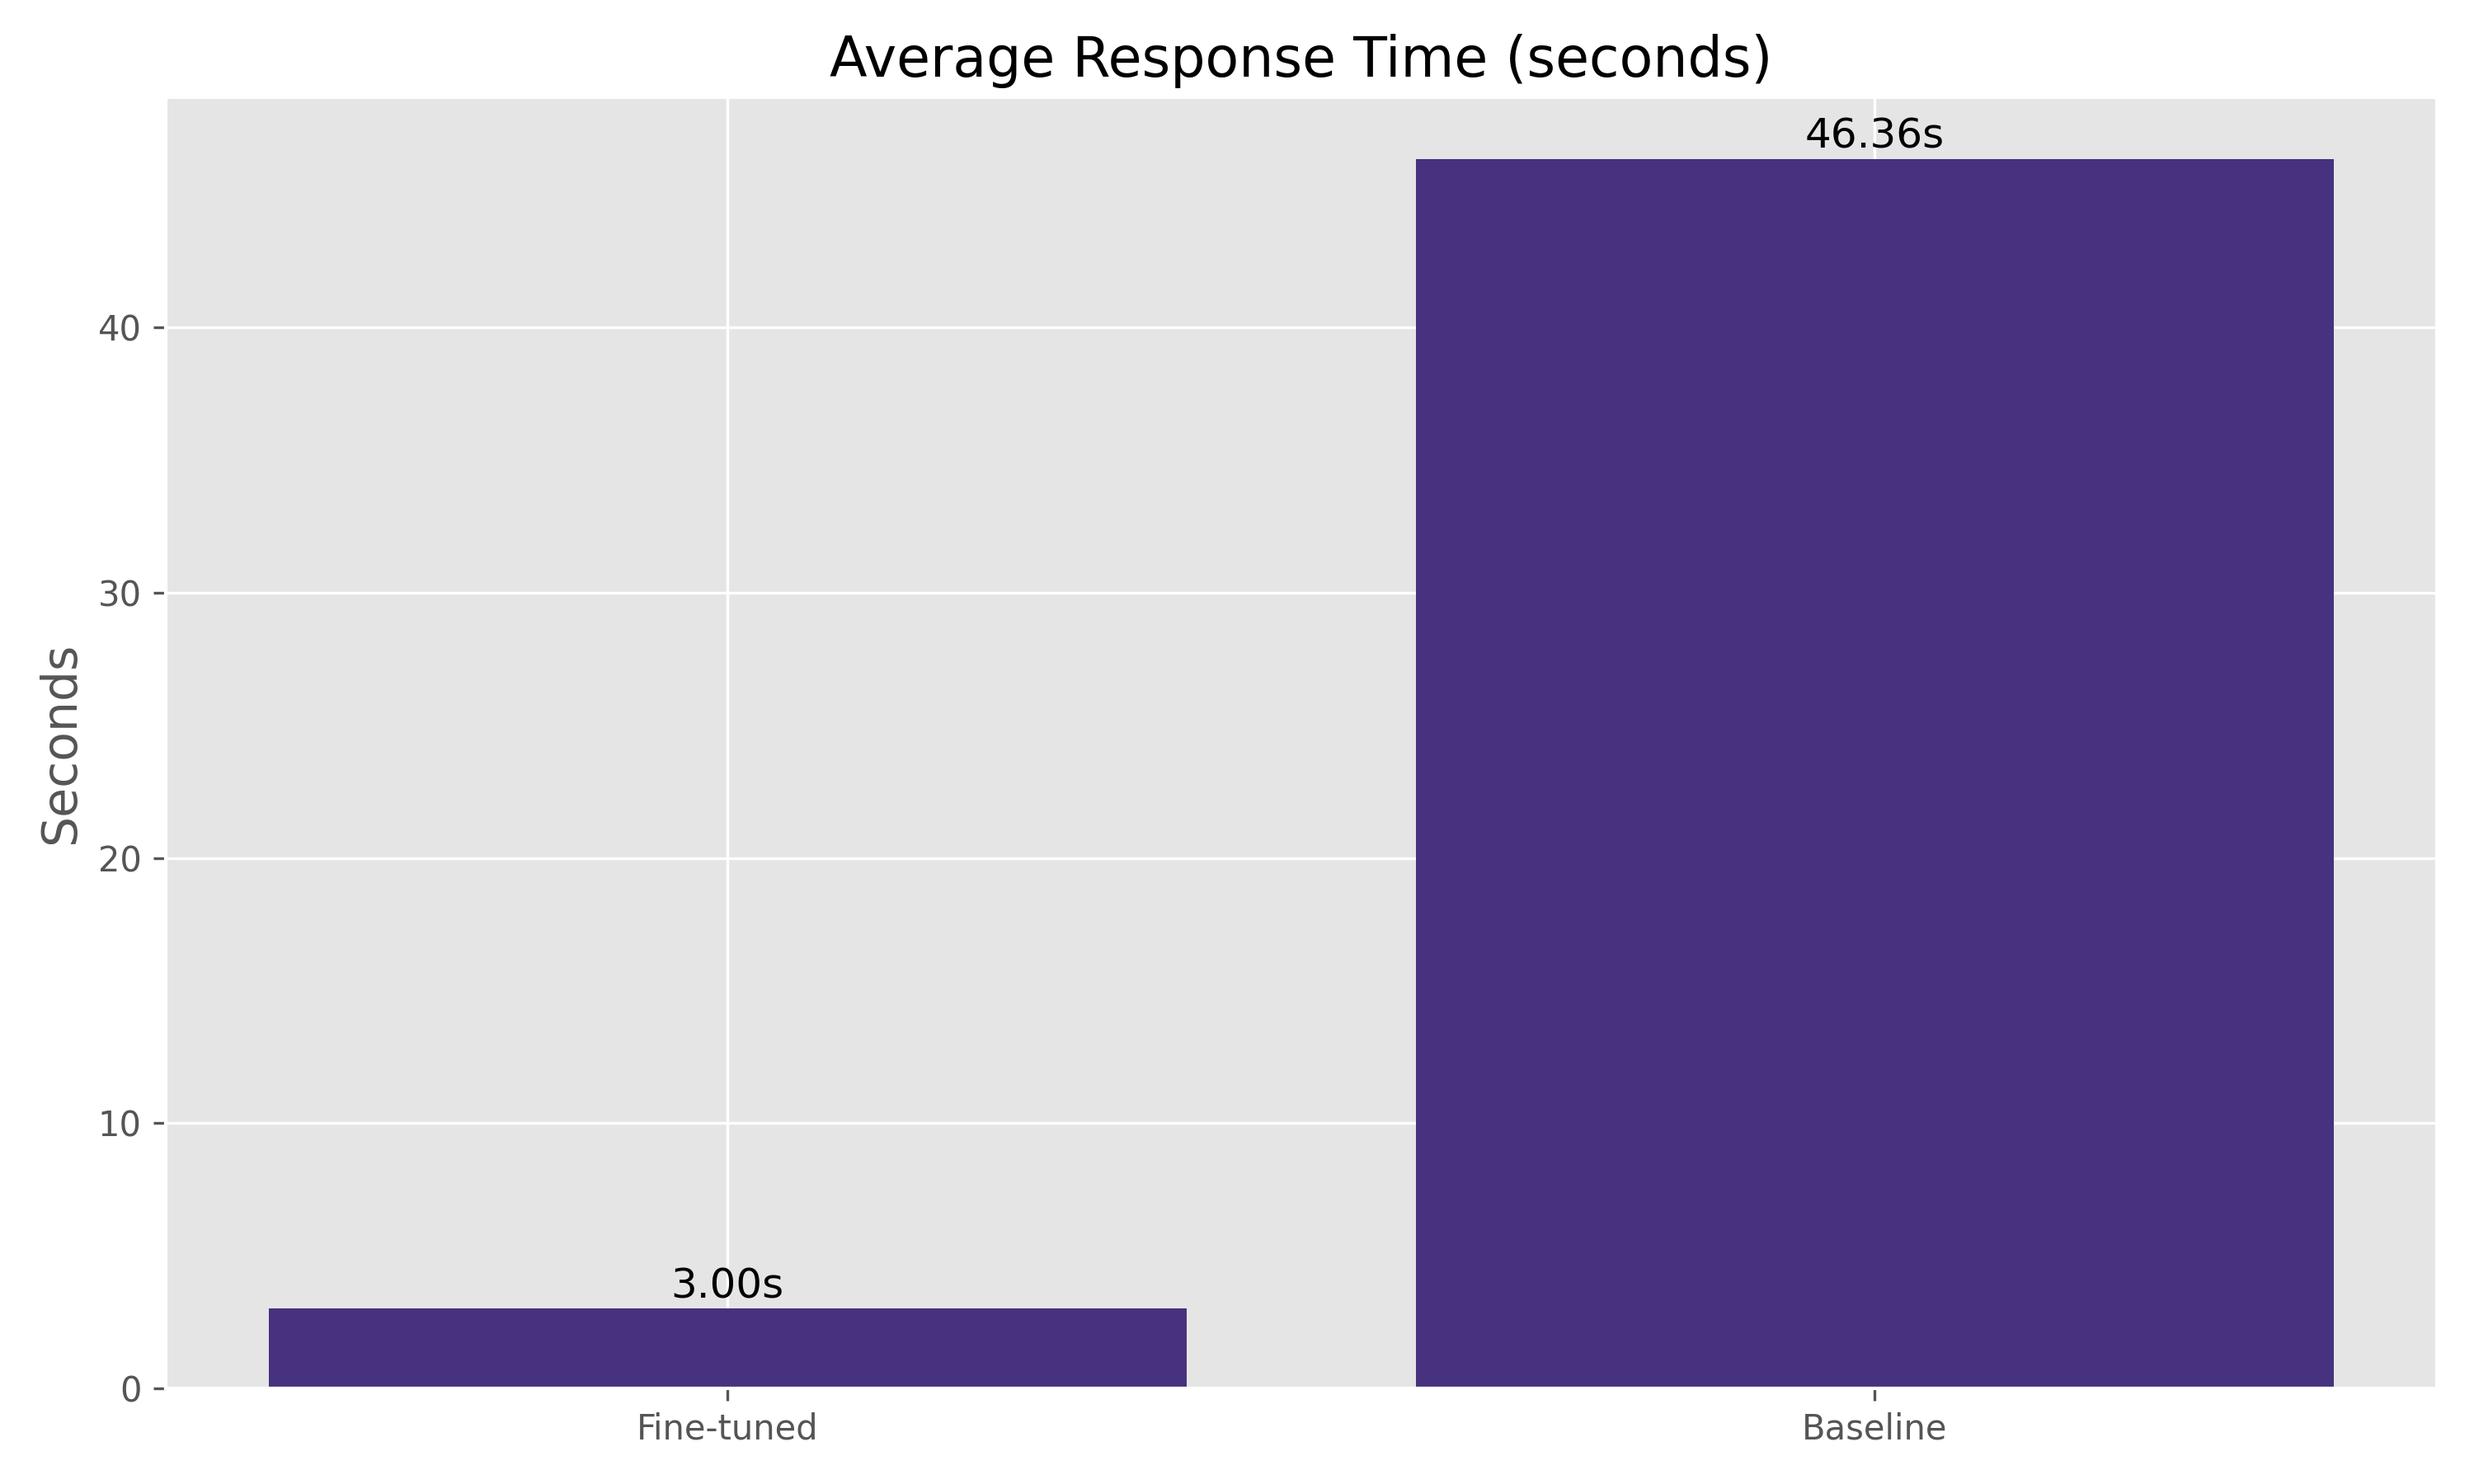
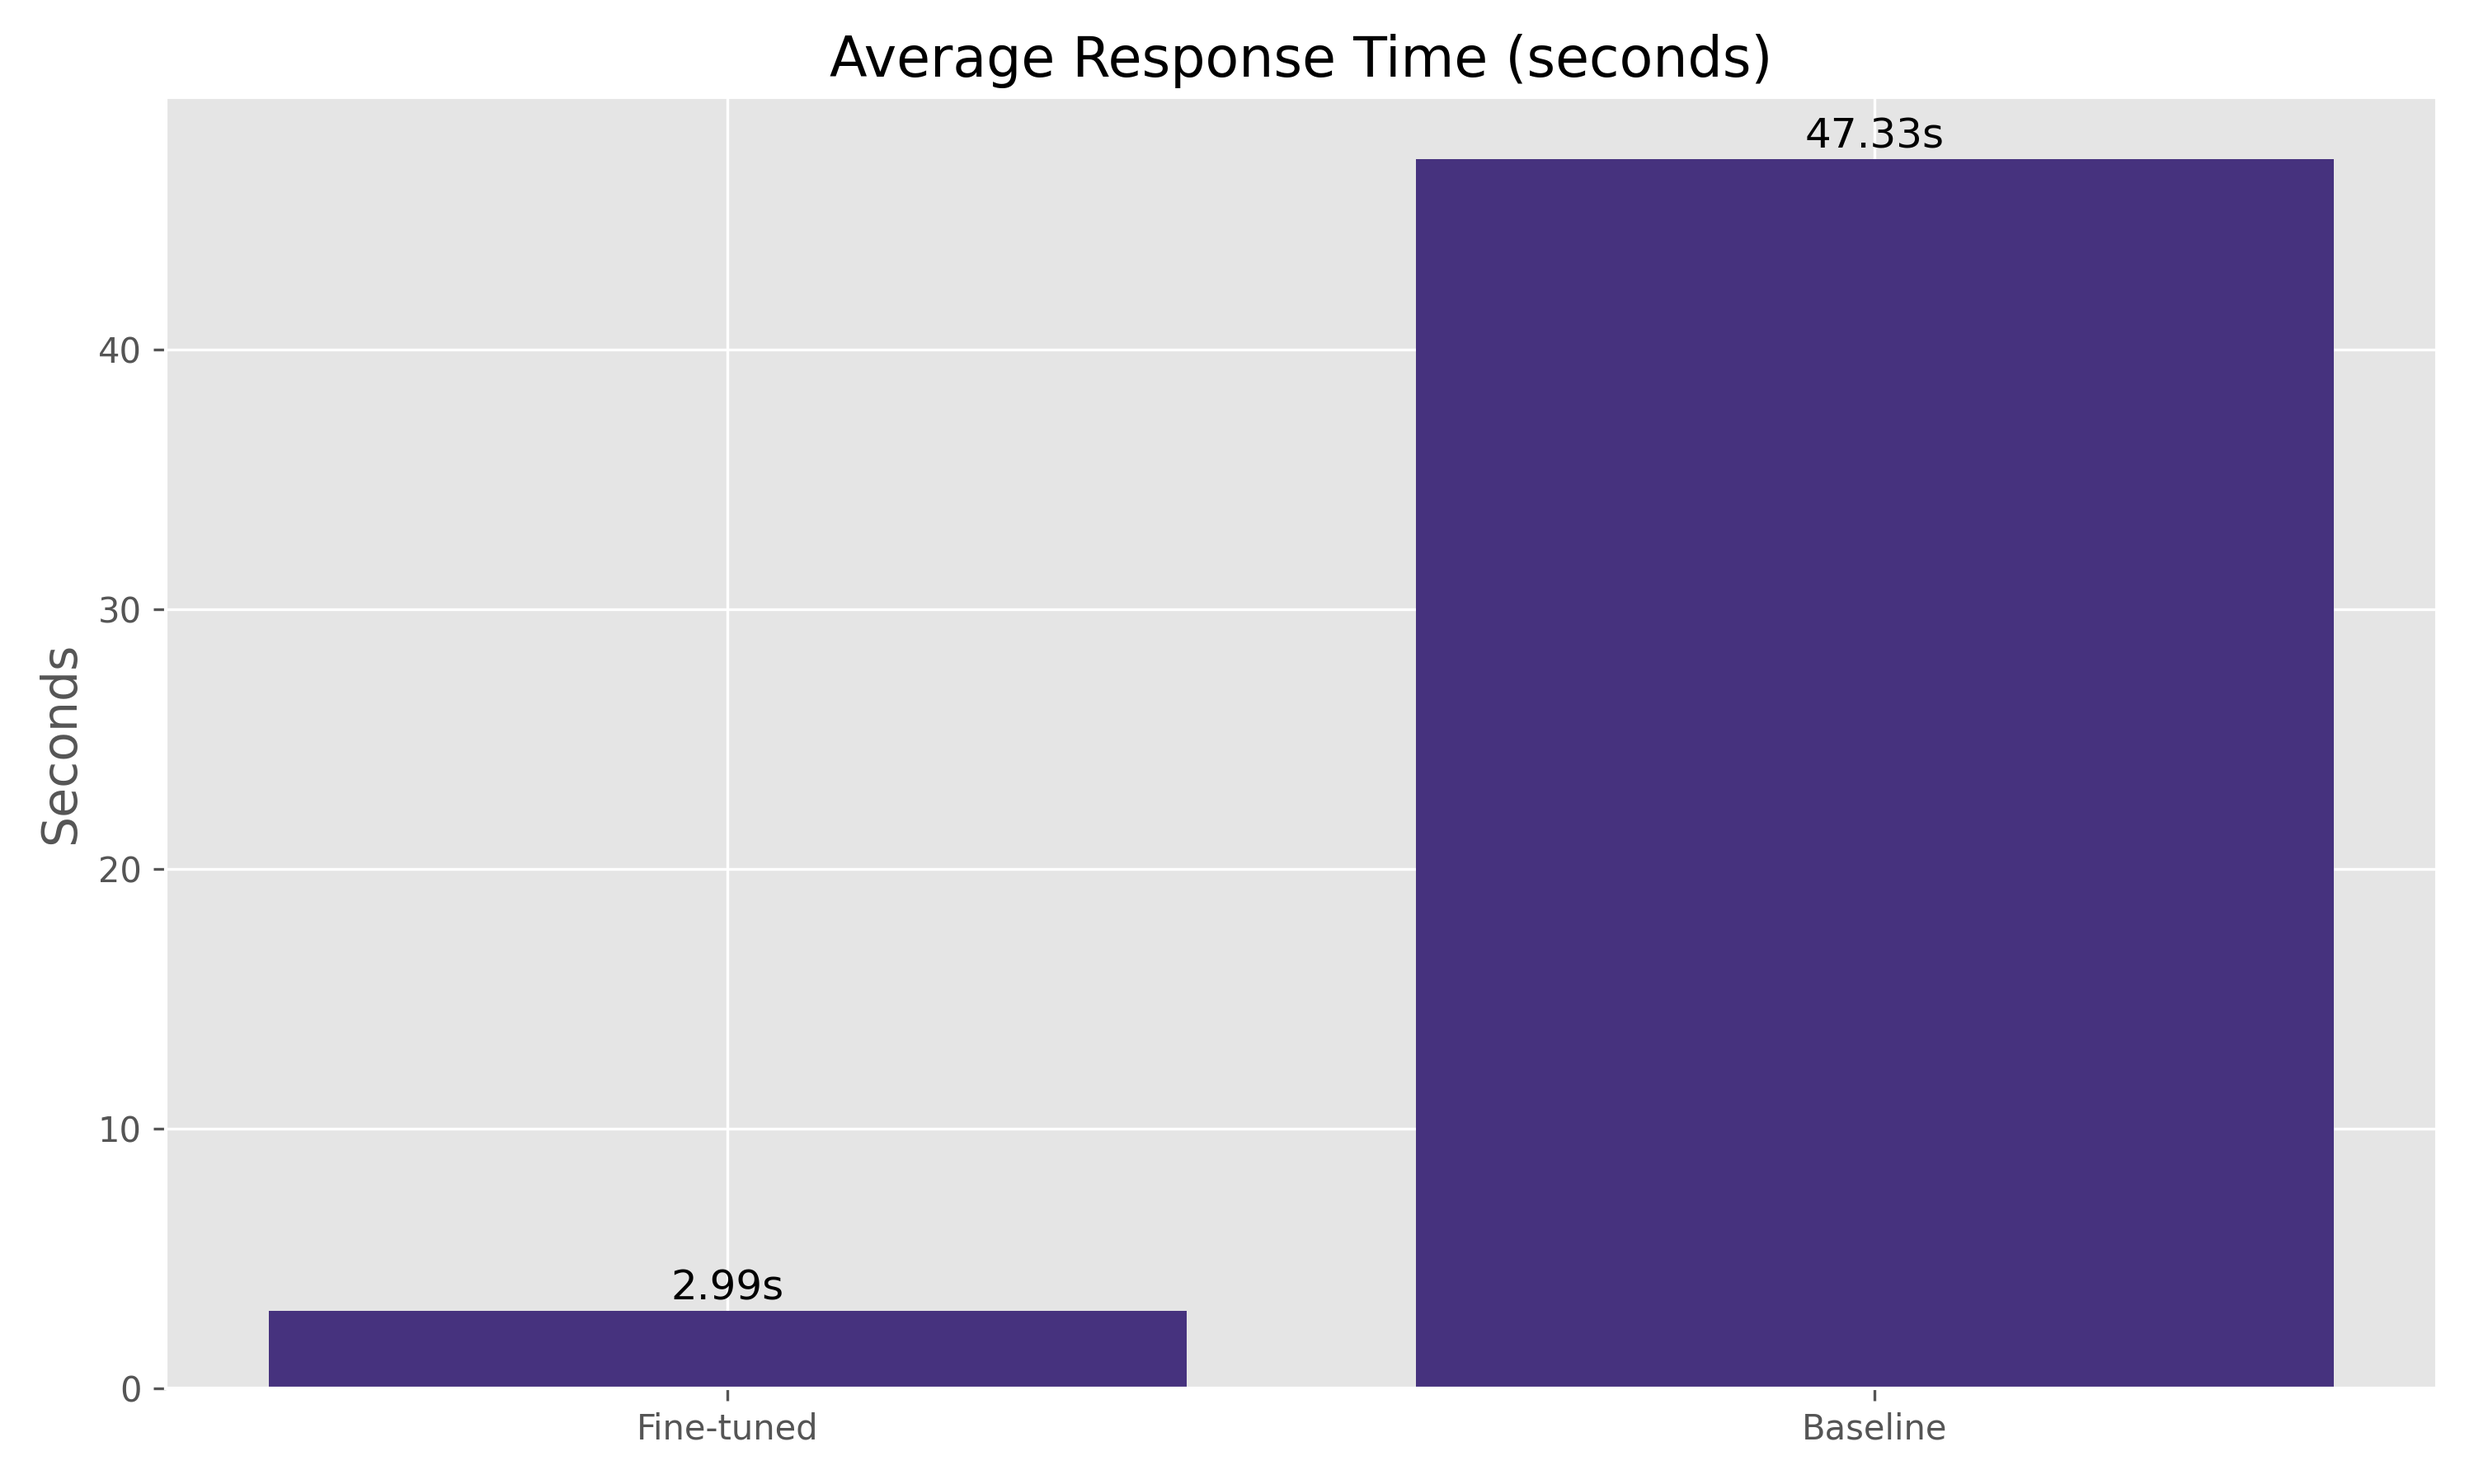
Add comprehensive benchmark results and documentation for RRR model performance
- Update README.md with detailed benchmark methodology and performance metrics
- Add visualizations for quality metrics, response time, and NLP comparisons
- Include category-wise performance analysis in benchmark results
- Update benchmark result images and JSON files with refined metrics
- Enhance documentation for fine-tuned model usage and evaluation

diff --git a/README.md b/README.md
@@ -66,6 +66,13 @@ The dataset contains dialogues between users and a virtual human, where each res
    - Creates automatic backups
    - Preserves dialogue structure
 
+5. `benchmark_rrr.py`
+   - Evaluates model performance against baseline
+   - Calculates format compliance and quality metrics
+   - Generates visualizations and detailed reports
+   - Computes NLP metrics using reference responses
+   - Analyzes performance across different prompt categories
+
 ### Setup & Usage 🚀
 
 1. Install dependencies:
@@ -94,6 +101,9 @@ python seed_dialogues_validate_tags.py
 
 # Save curated dialogues
 python seed_dialogues_save_curated.py
+
+# Run benchmark evaluation
+python benchmark_rrr.py
 ```
 
 ### Directory Structure 📁
@@ -103,6 +113,61 @@ python seed_dialogues_save_curated.py
 ├── dialogs_to_curate/        # Pending curation
 ├── seed_dialogues_*.json     # Generated batches
 └── requirements.txt          # Dependencies
+```
+
+## Fine-tuned Model 🤖
+
+We've fine-tuned a Mistral-7B model to follow the React-Respond-Reflect framework, creating a conversational AI that provides structured, empathetic responses.
+
+### Model Features
+
+- **Format Adherence**: Consistently follows the three-part structure
+- **Reasoning Quality**: Demonstrates thoughtful internal processing
+- **Response Quality**: Provides helpful, contextually appropriate answers
+- **Reflection Depth**: Shows self-awareness and conversation analysis
+- **Fast Response**: Generates complete responses in ~3 seconds
+
+### Usage
+
+```python
+from transformers import AutoTokenizer, AutoModelForCausalLM
+from unsloth import FastLanguageModel
+
+# Load the model
+model, tokenizer = FastLanguageModel.from_pretrained(
+    model_name="rrr_model",  # Local path or HuggingFace repo
+    max_seq_length=2048,
+    load_in_4bit=True,
+)
+
+# Apply chat template
+from unsloth.chat_templates import get_chat_template
+tokenizer = get_chat_template(
+    tokenizer,
+    chat_template="chatml",
+    map_eos_token=True,
+)
+
+# Prepare for inference
+FastLanguageModel.for_inference(model)
+
+# Generate a response
+messages = [{"role": "user", "content": "I'm feeling anxious about my job interview tomorrow. Any advice?"}]
+inputs = tokenizer.apply_chat_template(
+    messages,
+    tokenize=True,
+    add_generation_prompt=True,
+    return_tensors="pt"
+).to("cuda")
+
+outputs = model.generate(
+    input_ids=inputs,
+    max_new_tokens=2048,
+    temperature=0.7,
+)
+
+response = tokenizer.decode(outputs[0], skip_special_tokens=False)
+print(response)
 ```
 
 ## Using the Dataset 💡
@@ -119,6 +184,61 @@ dataset = load_dataset("leonvanbokhorst/react-respond-reflect-dialogues-v2")
 - Analyzing structured dialogue frameworks
 - Developing emotional intelligence in chatbots
 
+## Benchmark Results 📊
+
+We've conducted comprehensive benchmarking of our fine-tuned React-Respond-Reflect model against a baseline model (Mistral-7B). The results demonstrate significant improvements in format compliance, response quality, and processing speed.
+
+### Performance Metrics
+
+| Metric | Fine-tuned Model | Baseline Model |
+|--------|-----------------|---------------|
+| Format Compliance | 100.0% | 0.0% |
+| Reasoning Quality | 7.6/10 | 0.0/10 |
+| Response Quality | 7.4/10 | 0.0/10 |
+| Reflection Depth | 7.2/10 | 0.0/10 |
+| Response Time | 3.0s | 47.3s |
+
+### NLP Metrics
+
+| Metric | Score |
+|--------|-------|
+| BLEU | 0.028 |
+| ROUGE-1 | 0.257 |
+| ROUGE-2 | 0.054 |
+| ROUGE-L | 0.194 |
+| METEOR | 0.174 |
+| BERTScore F1 | 0.189 |
+| Semantic Similarity | 0.379 |
+
+### Visualizations
+
+#### Quality Metrics Comparison
+![Quality Metrics Comparison](benchmark_results/quality_radar.png)
+
+#### Response Time Comparison
+![Response Time Comparison](benchmark_results/response_time.png)
+
+#### NLP Metrics
+![NLP Metrics Comparison](benchmark_results/nlp_metrics_comparison.png)
+
+#### Category Analysis
+![Category Analysis](benchmark_results/category_analysis.png)
+
+### Benchmark Methodology
+
+The benchmark evaluates:
+1. **Format compliance**: Adherence to the React-Respond-Reflect structure
+2. **Quality metrics**: Reasoning depth, response helpfulness, and reflection insight
+3. **Response time**: Generation speed for complete responses
+4. **NLP metrics**: Similarity to reference responses using BLEU, ROUGE, METEOR, and BERTScore
+5. **Category performance**: Performance across emotional support, practical advice, philosophical, and adversarial prompts
+
+The benchmark uses a combination of:
+- Automated format validation
+- GPT-4o-mini for quality evaluation
+- Reference-based NLP metrics
+- Stratified sampling across prompt categories
+
 ## Contributing 🤝
 
 1. Follow PEP 8 style guide
@@ -132,7 +252,7 @@ dataset = load_dataset("leonvanbokhorst/react-respond-reflect-dialogues-v2")
 @dataset{react_respond_reflect_dialogues,
   author = {van Bokhorst, Leon},
   title = {React-Respond-Reflect Dialogues Dataset},
-  year = {2024},
+  year = {2025},
   publisher = {HuggingFace},
   version = {2.0},
   url = {https://huggingface.co/datasets/leonvanbokhorst/react-respond-reflect-dialogues-v2}
